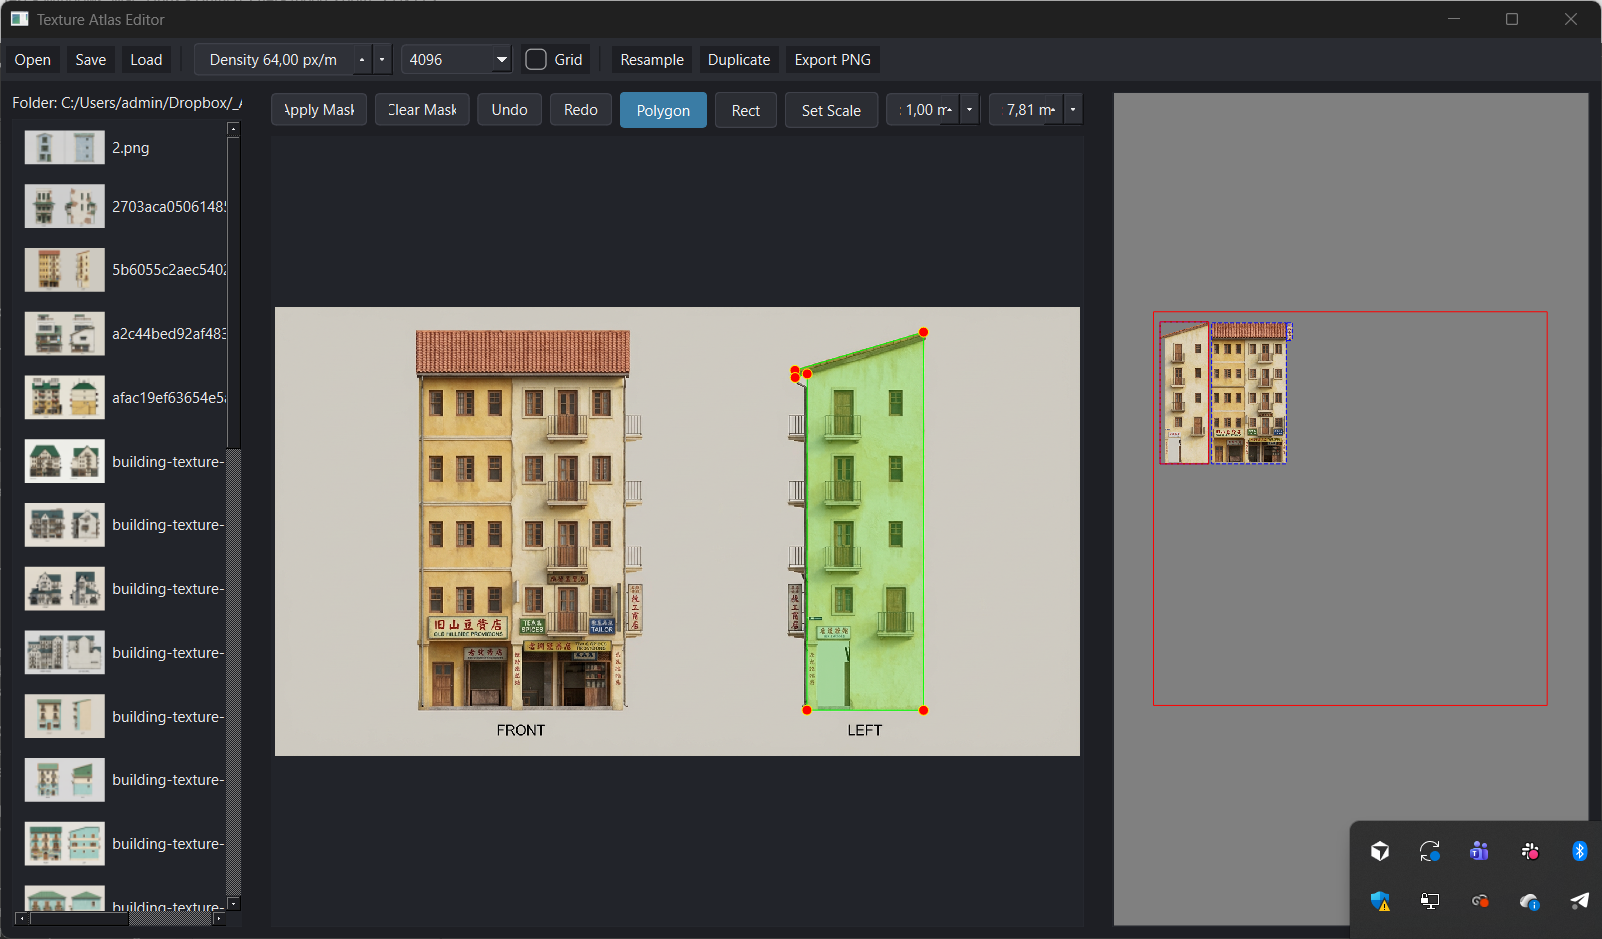
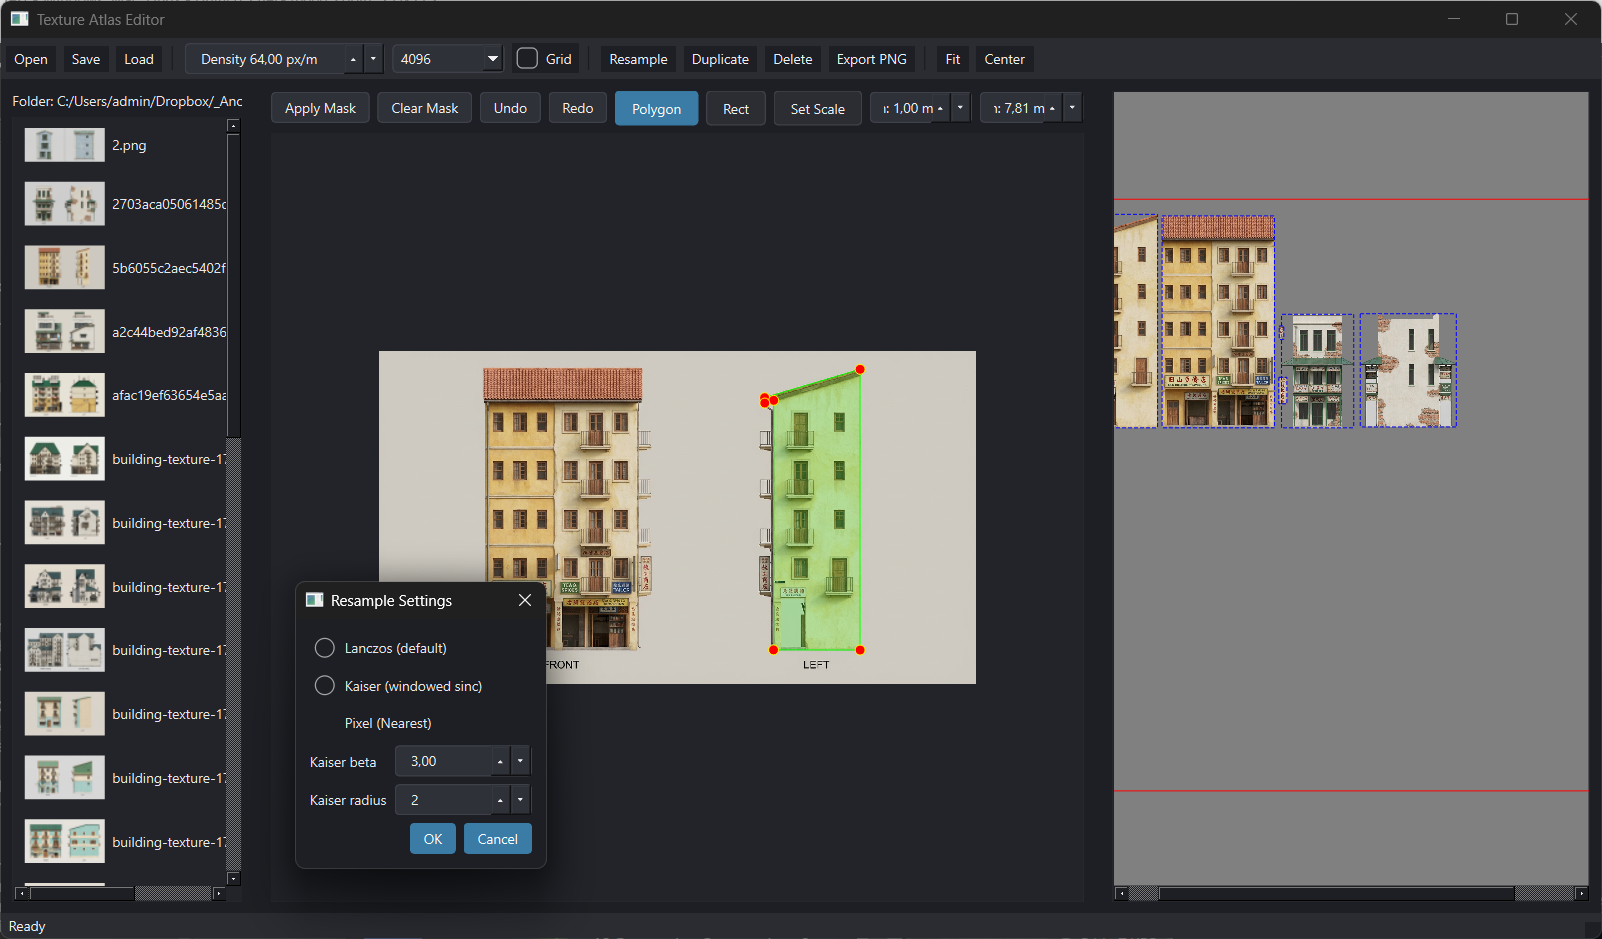
- improvements

diff --git a/ui/canvas_widget.py b/ui/canvas_widget.py
@@ -1,6 +1,6 @@
 from collections import OrderedDict
 import numpy as np
-from PySide6.QtWidgets import QGraphicsView, QGraphicsScene, QWidget, QVBoxLayout, QGraphicsPixmapItem, QGraphicsItem, QProgressDialog, QApplication, QSizePolicy
+from PySide6.QtWidgets import QGraphicsView, QGraphicsScene, QWidget, QVBoxLayout, QGraphicsPixmapItem, QGraphicsItem, QProgressDialog, QApplication, QSizePolicy, QLabel
 from PySide6.QtGui import QPixmap, QPainter, QPainterPath, QPolygonF, QColor, QBrush, QImage, QPen
 from PySide6.QtCore import Qt, QPointF, QRectF, Signal
 from PIL import Image
@@ -110,6 +110,7 @@ class CanvasScene(QGraphicsScene):
 
 class CanvasWidget(QWidget):
     item_edit_requested = Signal(object) # AtlasItem
+    hover_changed = Signal(float, float, float) # x, y, zoom
 
     def __init__(self, parent=None):
         super().__init__(parent)
@@ -134,6 +135,8 @@ class CanvasWidget(QWidget):
         self.scene.snap_items_to_pixel = False
         
         self.scene.selectionChanged.connect(self.on_selection_changed)
+        self.view.viewport().setMouseTracking(True)
+        self.view.setMouseTracking(True)
 
     def set_atlas_density(self, density, show_progress=False):
         self.atlas_density = density
@@ -172,11 +175,26 @@ class CanvasWidget(QWidget):
         self.scene.grid_enabled = visible
         self.scene.update()
 
+    def fit_to_atlas(self):
+        self.view.fitInView(self.scene.sceneRect(), Qt.KeepAspectRatio)
+
+    def center_on_atlas(self):
+        self.view.centerOn(self.scene.sceneRect().center())
+
     def snap_items_to_pixel(self):
         for item in self.scene.items():
             if isinstance(item, AtlasItem):
                 pos = item.pos()
                 item.setPos(round(pos.x()), round(pos.y()))
+
+    def mouseMoveEvent(self, event):
+        if self.view and self.scene:
+            scene_pos = self.view.mapToScene(event.pos())
+            # Approximate zoom factor (scale from transform)
+            m = self.view.transform()
+            zoom = m.m11()
+            self.hover_changed.emit(scene_pos.x(), scene_pos.y(), zoom)
+        super().mouseMoveEvent(event)
 
     def regenerate_item_pixmap(self, item):
         if item.filepath and item.points and item.real_width and item.original_width:
@@ -194,6 +212,7 @@ class CanvasWidget(QWidget):
         dlg = QProgressDialog(title, None, 0, 0, self)
         dlg.setWindowModality(Qt.ApplicationModal)
         dlg.setMinimumDuration(0)
+        dlg.setStyleSheet("QProgressDialog { background: #2a2c32; color: #f0f0f2; } QProgressBar { background: #22242a; border: 1px solid #3f414a; }")
         dlg.show()
         QApplication.processEvents()
         func()
@@ -207,6 +226,7 @@ class CanvasWidget(QWidget):
         dlg = QProgressDialog(title, None, 0, total, self)
         dlg.setWindowModality(Qt.ApplicationModal)
         dlg.setMinimumDuration(0)
+        dlg.setStyleSheet("QProgressDialog { background: #2a2c32; color: #f0f0f2; } QProgressBar { background: #22242a; border: 1px solid #3f414a; }")
         dlg.show()
         for idx, item in enumerate(items, start=1):
             QApplication.processEvents()

diff --git a/ui/main_window.py b/ui/main_window.py
@@ -75,6 +75,10 @@ class MainWindow(QMainWindow):
         export_action = QAction("Export PNG", self)
         export_action.triggered.connect(self.export_atlas)
         self.toolbar.addAction(export_action)
+        self.toolbar.addSeparator()
+        # Fit/Center actions will be wired after canvas is created
+        self.fit_action = QAction("Fit", self)
+        self.center_action = QAction("Center", self)
 
         # Main layout
         central_widget = QWidget()
@@ -89,6 +93,11 @@ class MainWindow(QMainWindow):
         self.browser = BrowserWidget()
         self.editor = EditorWidget()
         self.canvas = CanvasWidget()
+        # Wire Fit/Center actions now
+        self.fit_action.triggered.connect(self.canvas.fit_to_atlas)
+        self.center_action.triggered.connect(self.canvas.center_on_atlas)
+        self.toolbar.addAction(self.fit_action)
+        self.toolbar.addAction(self.center_action)
         # Size policies
         self.browser.setSizePolicy(QSizePolicy.Preferred, QSizePolicy.Expanding)
         self.editor.setSizePolicy(QSizePolicy.Expanding, QSizePolicy.Expanding)
@@ -122,6 +131,8 @@ class MainWindow(QMainWindow):
             'atlas_size': 2048
         }
         self.apply_dark_theme()
+        self.statusBar().showMessage("Ready")
+        self.canvas.hover_changed.connect(self.update_status)
 
     def apply_dark_theme(self):
         # Simple dark palette
@@ -130,7 +141,7 @@ class MainWindow(QMainWindow):
             background: #1e1f24;
             color: #e8e8ea;
             font-family: 'Segoe UI', 'Inter', sans-serif;
-            font-size: 12px;
+            font-size: 11px;
         }
         QToolBar {
             background: #2a2c32;
@@ -174,6 +185,10 @@ class MainWindow(QMainWindow):
             border: 1px solid #3f414a;
         }
         QMenu::item:selected { background: #3a3c44; }
+        QStatusBar {
+            background: #2a2c32;
+            color: #f0f0f2;
+        }
         """)
 
     def open_folder(self):
@@ -359,6 +374,7 @@ class MainWindow(QMainWindow):
             self.canvas.set_resample_settings(mode, beta, radius)
             # Ensure density applied (valueChanged will fire, but be explicit)
             self.canvas.set_atlas_density(self.density_input.value(), show_progress=False)
+            self.canvas.set_grid_visible(self.project_data.get('show_grid', False))
 
             # Restore canvas
             self.canvas.scene.clear()
@@ -476,3 +492,6 @@ class MainWindow(QMainWindow):
         buttons.rejected.connect(dialog.reject)
 
         dialog.exec()
+
+    def update_status(self, x, y, zoom):
+        self.statusBar().showMessage(f"Pos: ({x:.1f}, {y:.1f}) | Zoom: {zoom:.2f} | Density: {self.density_input.value():.0f} px/m")
